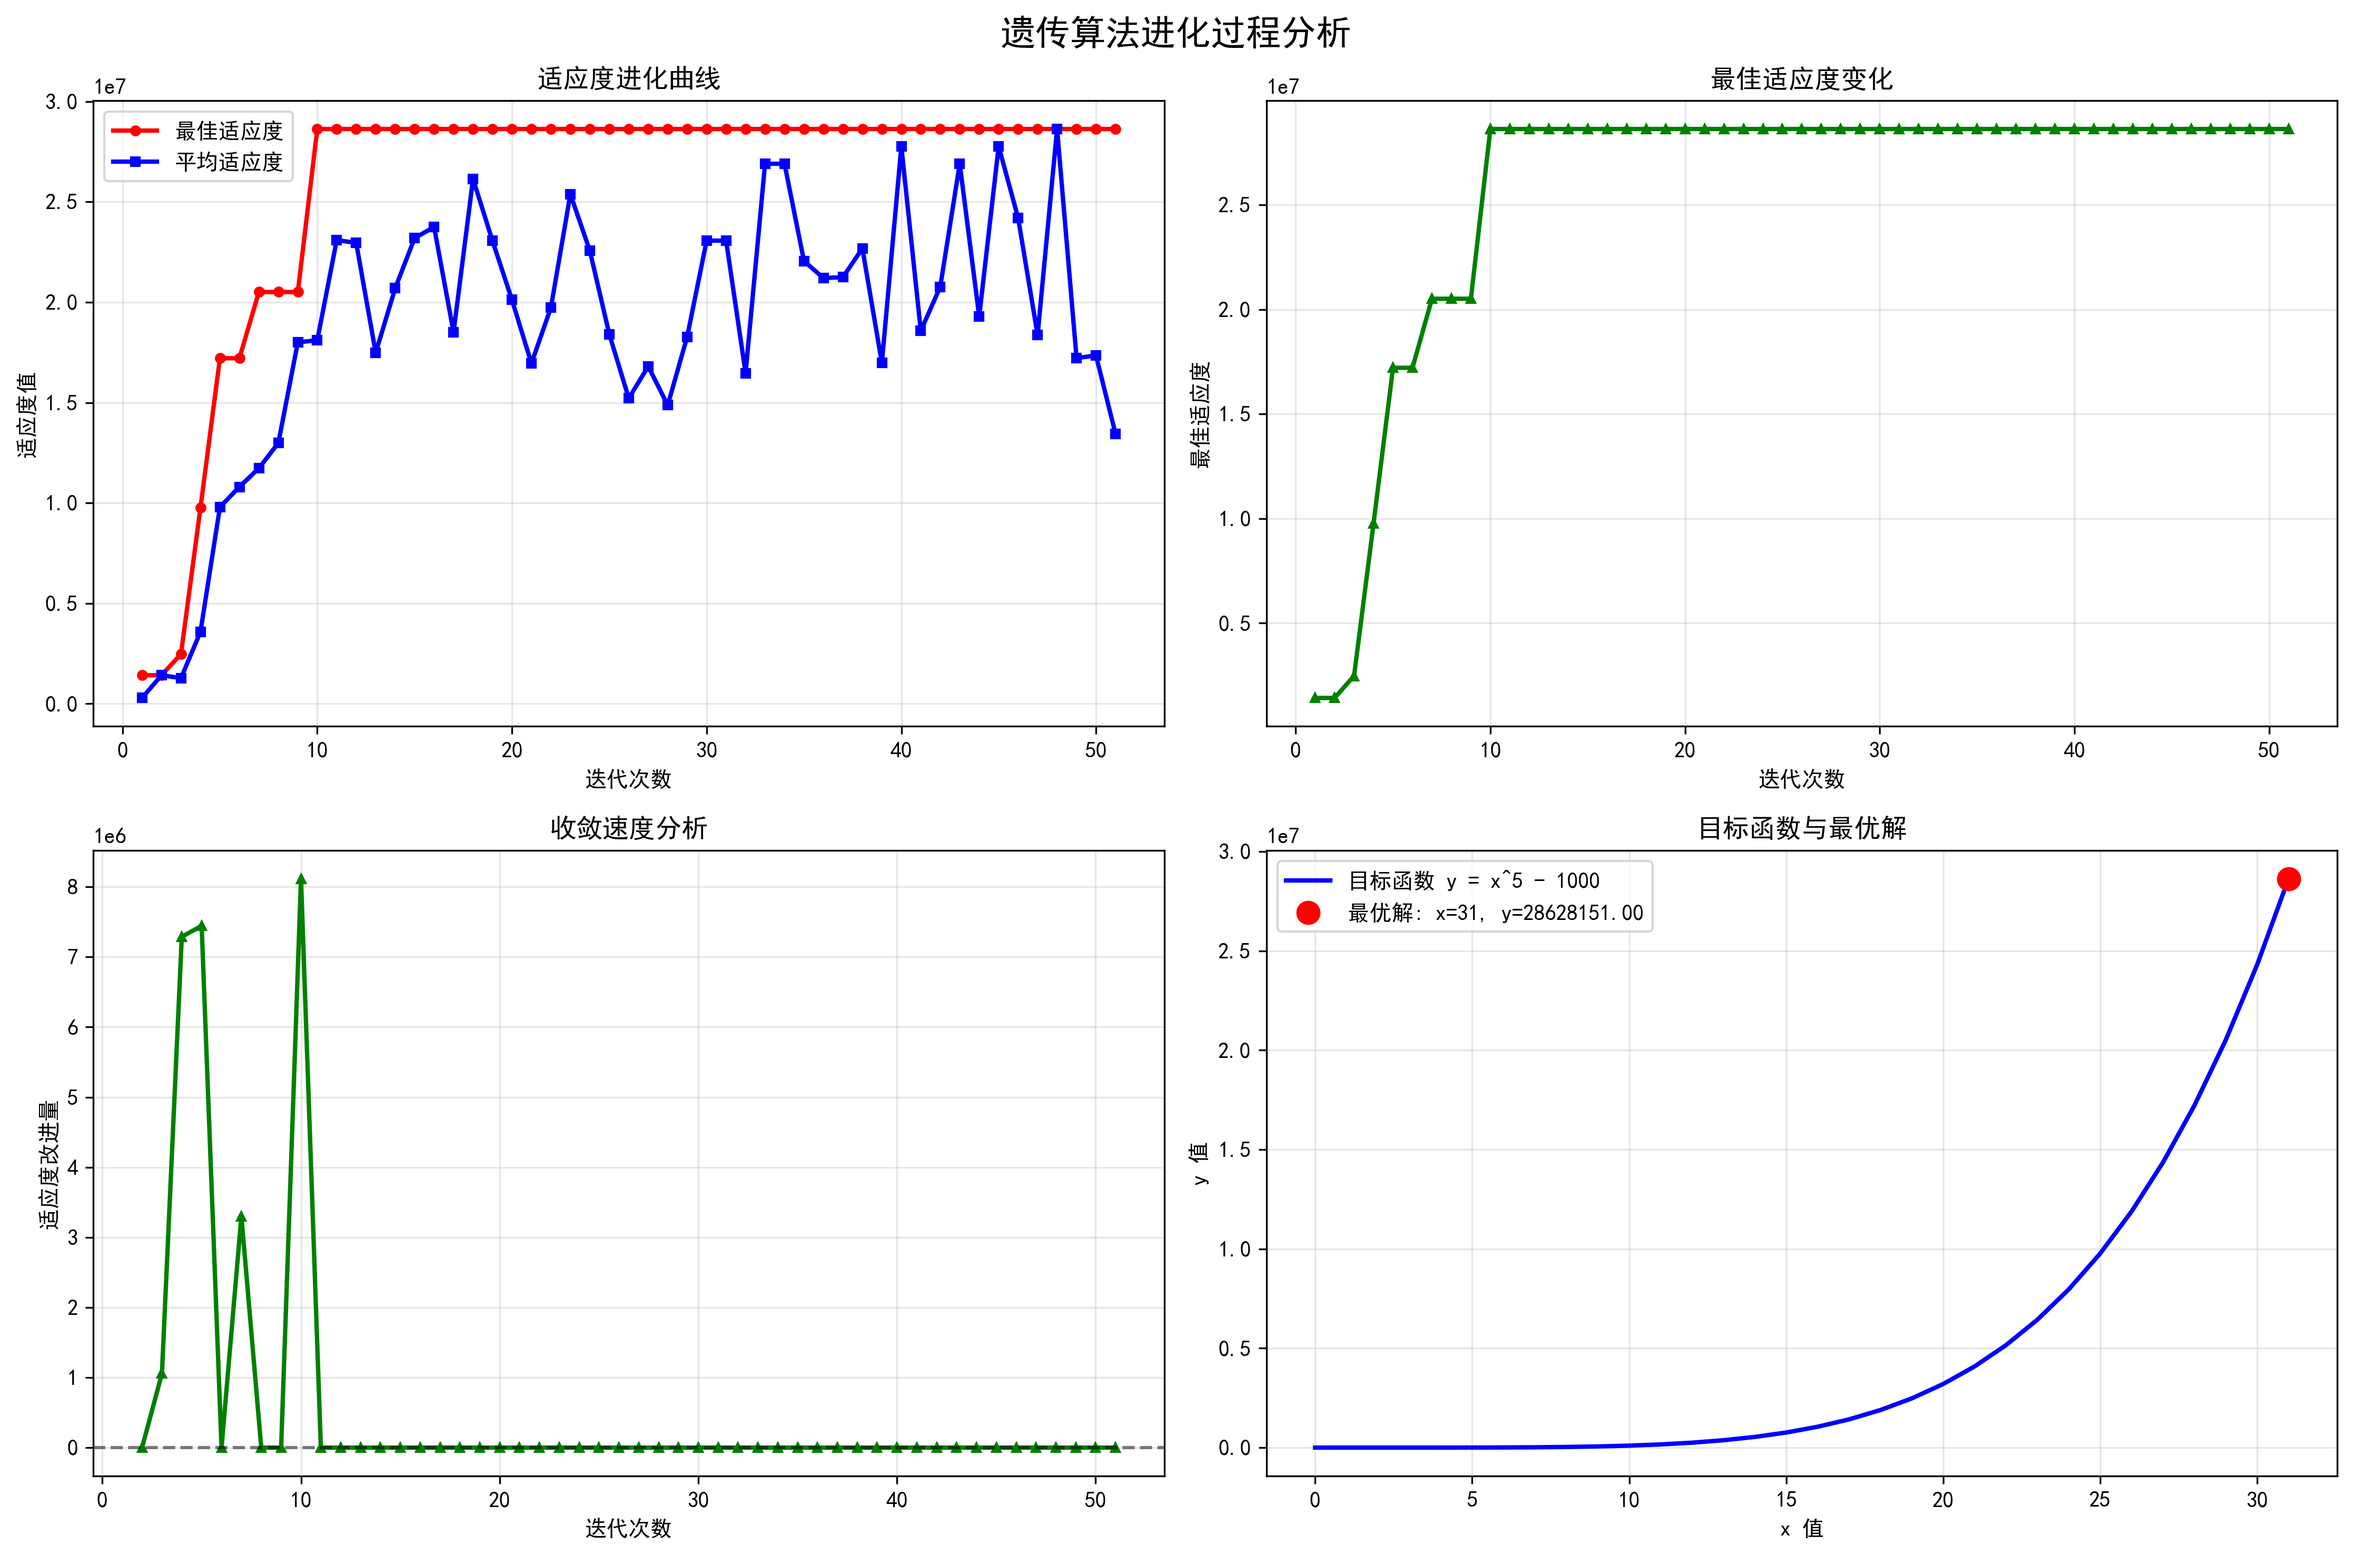
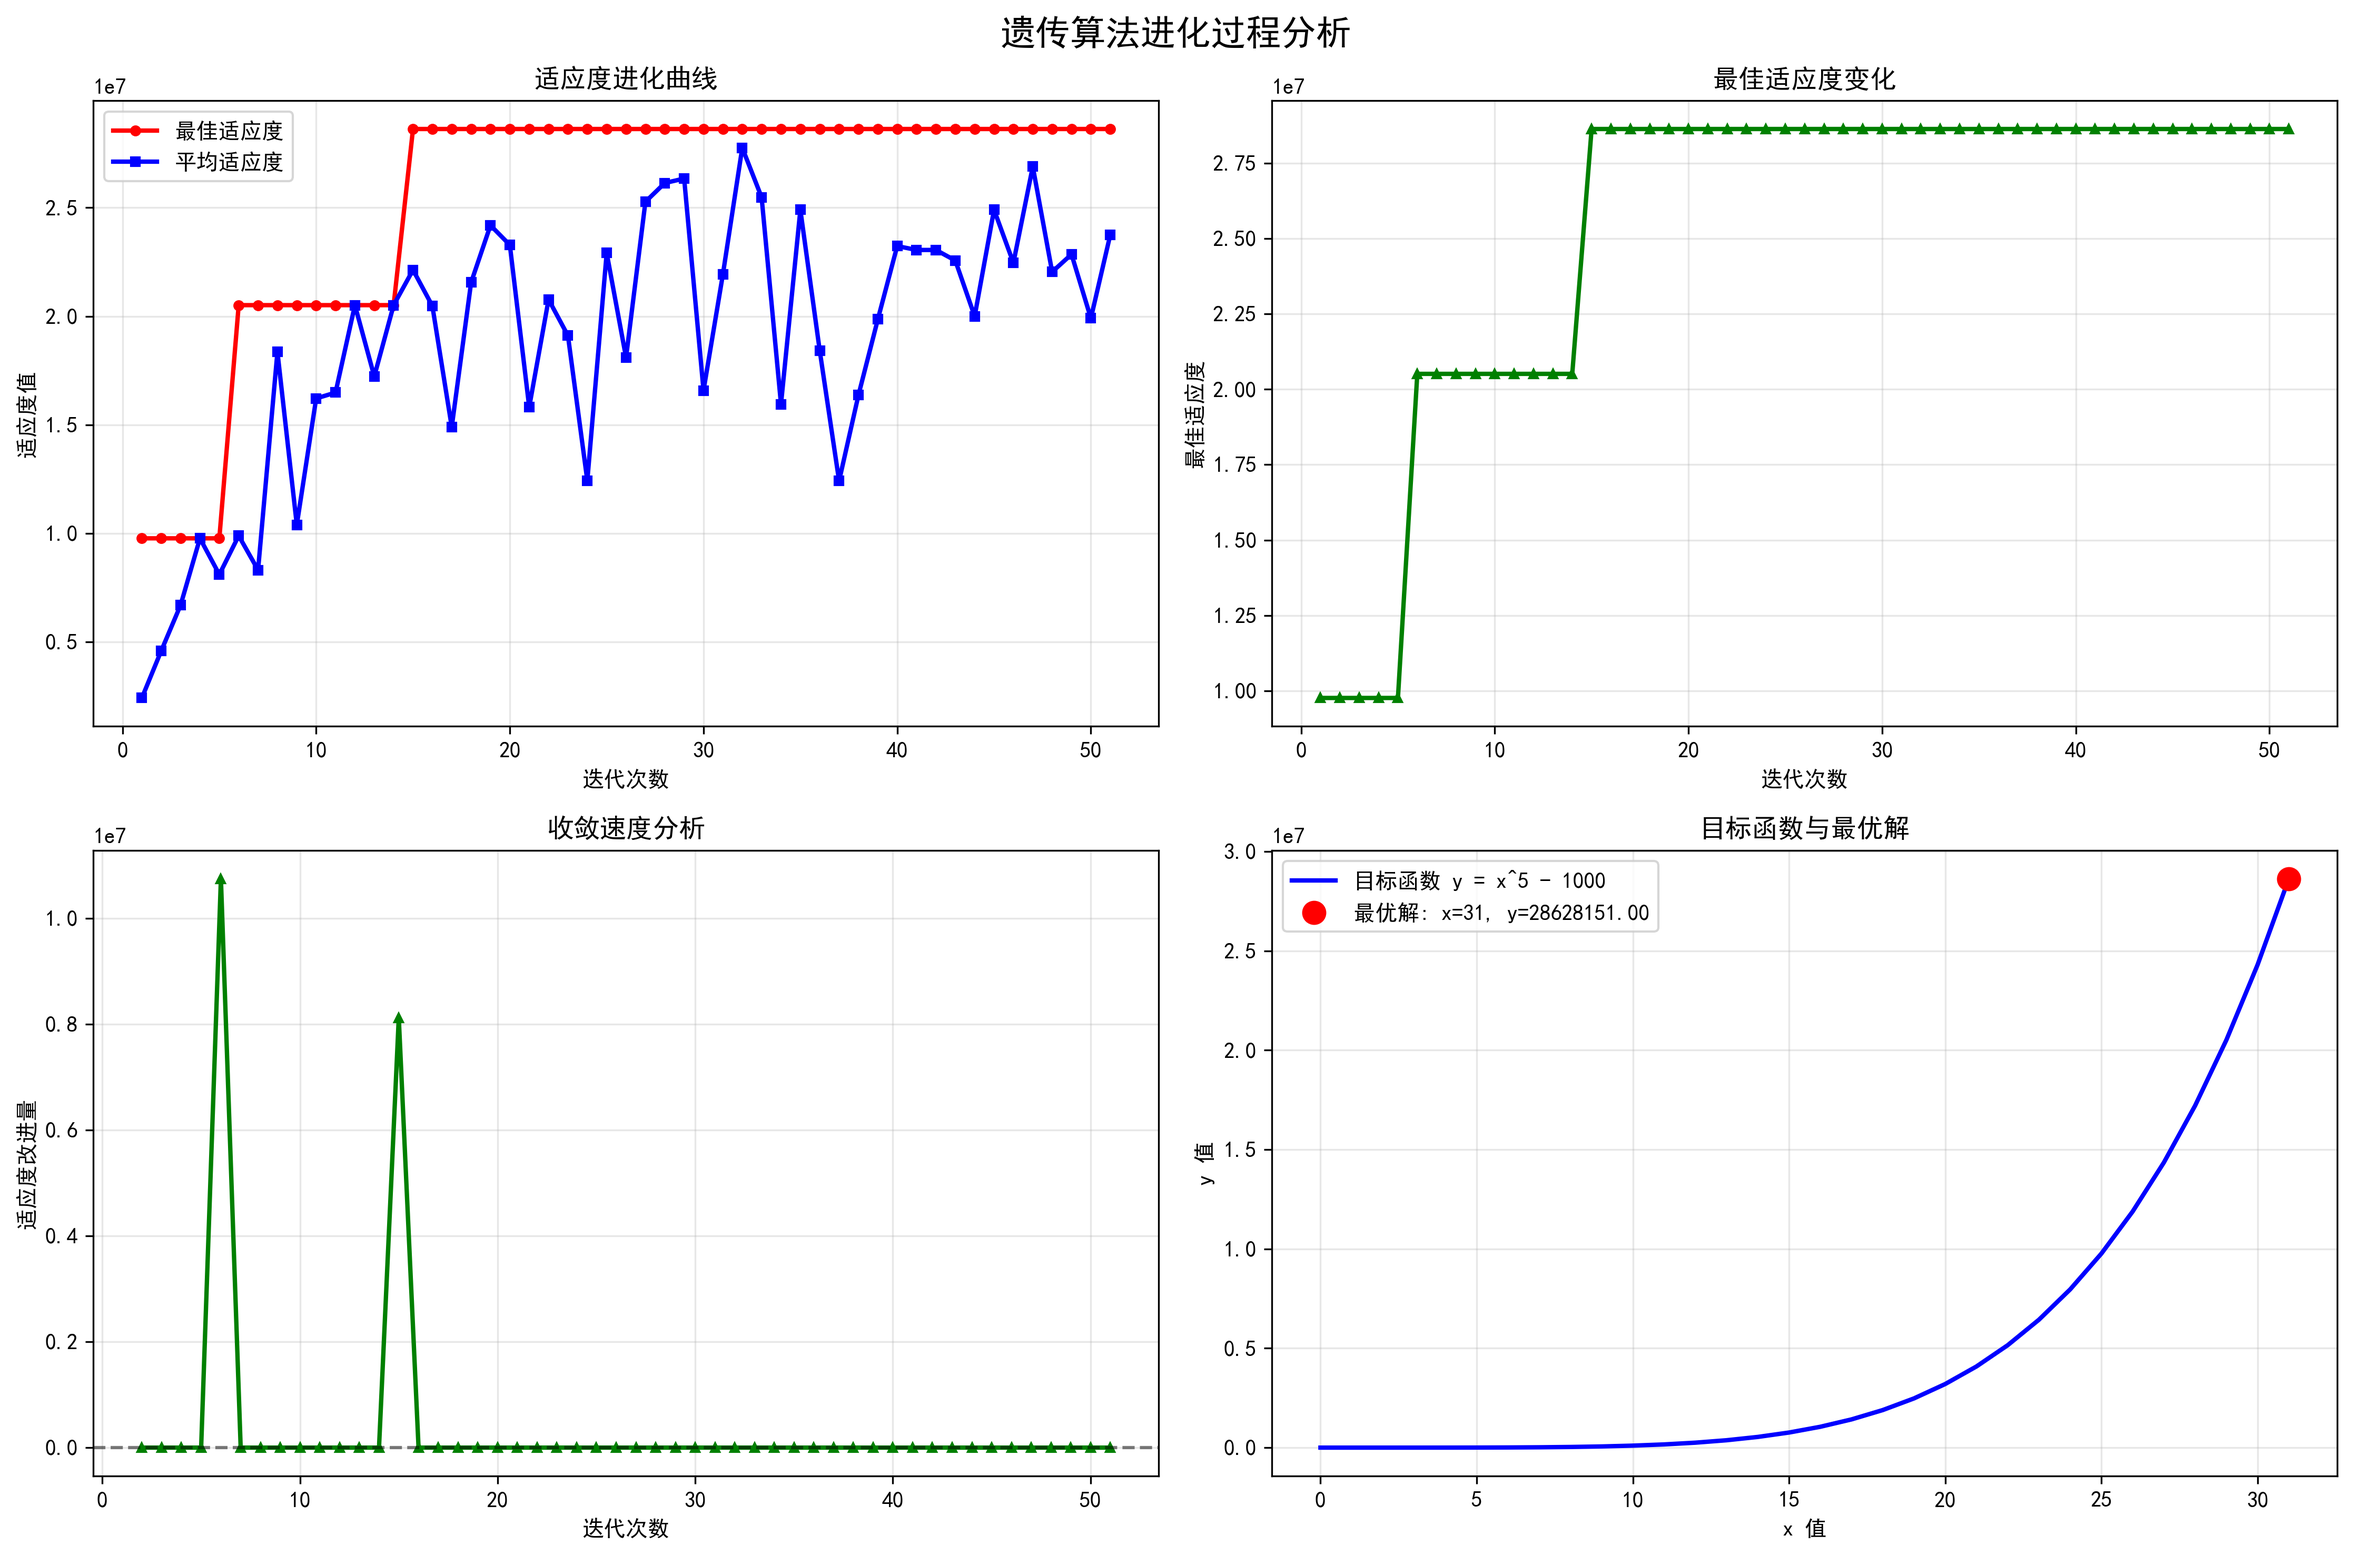
调整实验参数，将种群大小从50修改为5

diff --git a/experiment2.py b/experiment2.py
@@ -1000,7 +1000,7 @@ def run_experiment():
     
     # 算法参数配置
     config = {
-        'population_size': 50,      # 种群大小
+        'population_size': 5,      # 种群大小
         'crossover_rate': 0.8,      # 交叉概率
         'mutation_rate': 0.1,       # 变异概率
         'max_generations': 100      # 最大迭代次数
